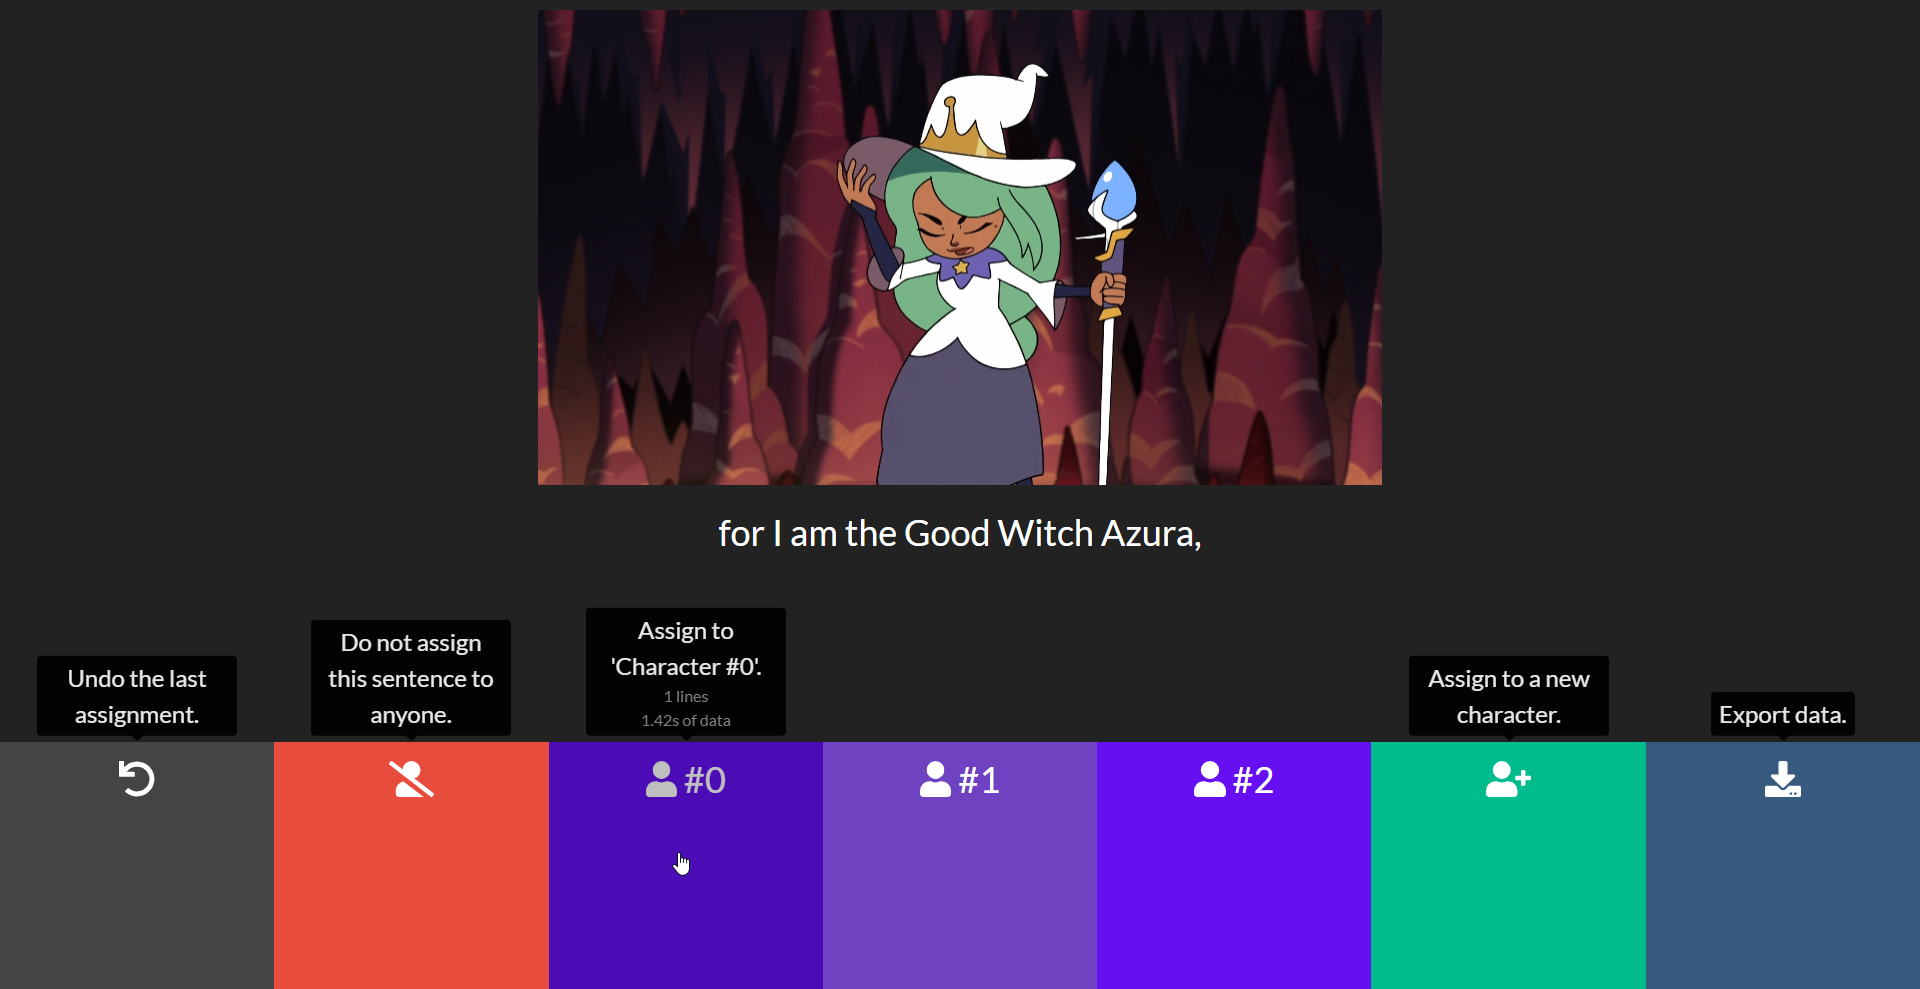
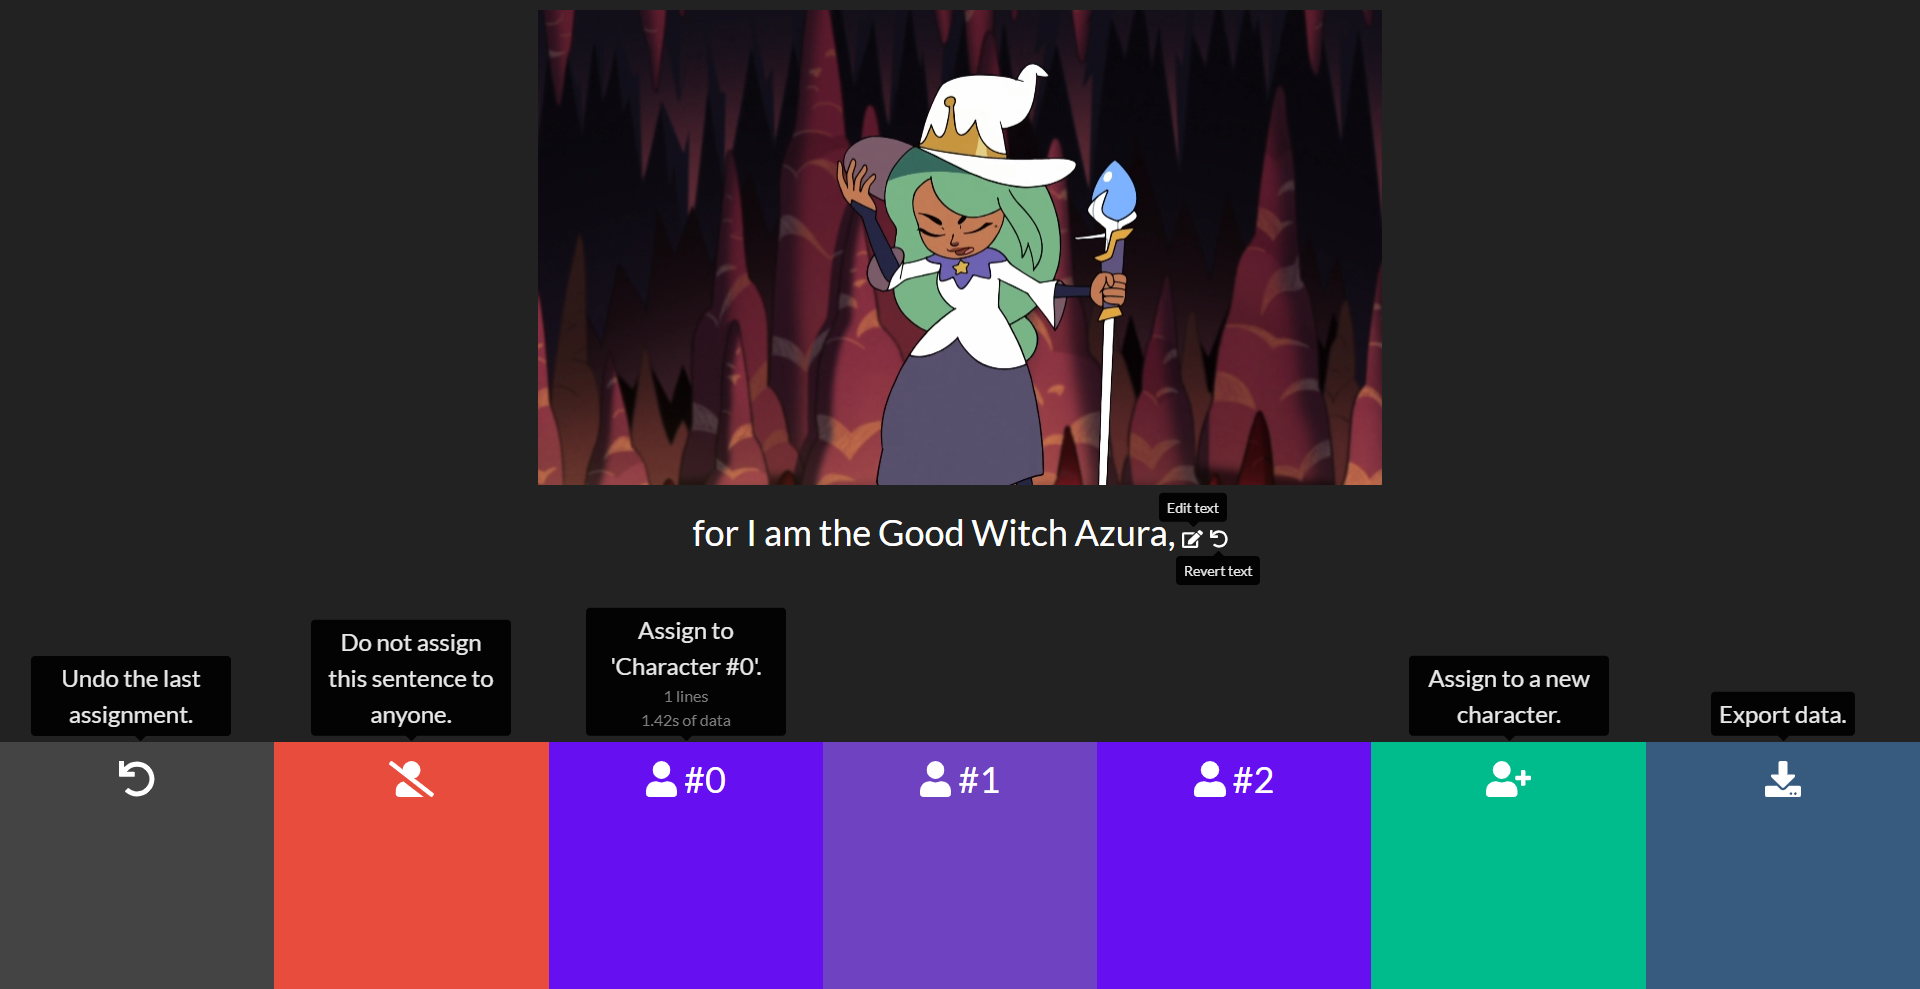
update readme

Changed region(s): [[0.2812, 0.728, 0.4375, 1.0], [0.3438, 0.4853, 0.6562, 0.6067], [0.0312, 0.6673, 0.125, 0.728]]

diff --git a/app.js b/app.js
@@ -232,14 +232,12 @@ window.electron.ipcinvoke("ripsub", videourl).then(subtitles => {
                 let edittext = document.querySelector("#edittext");
                 // add tooltip to edit button
                 new bootstrap.Tooltip(edittext, {
-                    placement: "top",
                     title: "Edit text",
                     html: true
                 })
                 let reverttext = document.querySelector("#reverttext");
                 // add tooltip to edit button
                 new bootstrap.Tooltip(reverttext, {
-                    placement: "top",
                     title: "Revert text",
                     html: true
                 })

diff --git a/README.md b/README.md
@@ -58,7 +58,12 @@ MP4 files are less flexible than MKV and only support one type of caption format
 
 ![app](screenshots/app.png)
 
-The app will begin to play the video subtitle-by-subtitle. All text in brackets (i.e. `[screams]`) is removed.
+The app will begin to play the video subtitle-by-subtitle.
+
+The subtitles are automatically cleaned up to aid assignment. All text in brackets (i.e. `[screams]`) is removed, as
+well as some other typical things in subtitles (dashes, html tags, excessive newlines). If the program removes actual
+dialog, there is a "revert to unfiltered" option when clicking "Revert Text". To accompany this, there is an "Edit Text"
+button to manually modify the subtitle.
 
 Each subtitle can be assigned to a "character". Each character will have their own dataset once the voice lines are
 exported. Voice lines must be assigned to a character if you wish for them to be exported.
